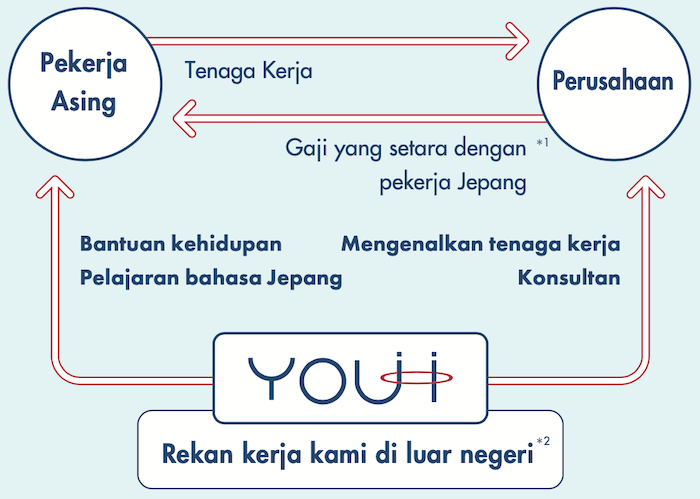
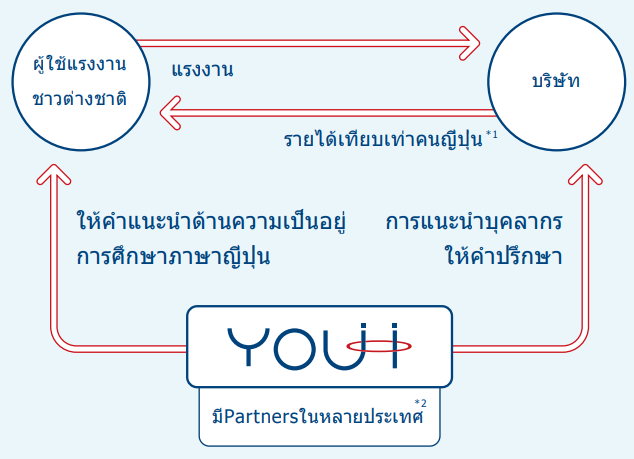
Translations

Changed region(s): [[0.0, 0.0, 0.989, 1.0], [0.929, 0.2745, 0.959, 0.305]]

diff --git a/index.html b/index.html
@@ -64,24 +64,22 @@
 
     <!-- Top Section -->
     <section class="top-section">
-        <div class="member-photo-container"><img src="img/facesrow1.jpg" alt="YOU-Iの外国人メンバー達" class="img-fluid"></div>
+        <div class="member-photo-container"><img src="img/facesrow1.jpg" alt="" class="img-fluid"></div>
         <div class="row logo-container">
             <div class="col-3 col-sm-2 align-center-top">
                 <div class="circle align-center text-center">
-                  Staf<br />
-                     multinasional
+                  พนักงานข้ามชาติ
                 </div>
             </div>
             <div class="col-6 col-sm-8 logo-area"></div>
             <div class="col-3 col-sm-2 align-center-top">
                 <div class="circle align-center text-center">
-                     16 Bahasa
+                     16 ภาษา
                 </div>
             </div>
         </div>
         <div class="row catchphrase text-center">
-            <span>Menghidupkan komunitas dengan jaringan<br />
-              kami yang ada di banyak tempat</span>
+            <span>เครือข่ายทัง้ ในและต่างประเทศที่คอยสนับสนุนกิจกรรม ต่างๆของชุมชน</span>
         </div>
         <div class="member-photo-container"><img src="img/facesrow2.jpg" alt="YOU-Iの外国人メンバー達" class="img-fluid"></div>
         <!-- Attempt to show flowdown with text
@@ -94,13 +92,13 @@
     <section class="page-section method-section">
         <div style="row">
             <div class="col-10 offset-1 container-with-border">
-                  Perusahaan yang ingin merekrut pekerja asing
+                  บริษัทต่างๆที่ต้องการ ผู้ใช้แรงงานชาวต่างชาต
             </div>
             <div class="w-100"></div>
             <div class="col-12 text-center divider-area-line"></div>
             <div class="w-100"></div>
             <div class="col-10 offset-1 container-with-border">
-                Orang yang ingin bekerja di Jepang
+                ผู้ที่ต้องการทำงานในประเทศญี่ปุ่นซึ่งอยู่ทัง้ ในและนอกประเทศญี่ปุ่น
             </div>
             <div class="w-100"></div>
             <div class="col-12 text-center divider-area-arrow"></div>
@@ -108,11 +106,11 @@
             <div class="row">
                 <div class="col-4 method-bottom-left"></div>
                 <div class="col-4 container-without-border">
-                    <span>Staf multinasional kami</span>
+                    <span>เรามีทีมงานคอยช่วยเหลือชาวต่าง</span>
                     <br />
-                    <span>akan membantu Anda!</span>
+                    <span>ชาติที่อาศัยอยู่ในจังหวัดอิชิกาวะ</span>
                     <br />
-                    <span class="color-red" style="font-size: 50%;">※Kami juga siap membantu pemagang (jisshusei)</span>
+                    <span class="color-red" style="font-size: 50%;">※และให้ความช่วยเหลือผู้มาฝึกงานทางเทคนิคด้วยเช่นกัน</span>
                 </div>
                 <div class="col-4 method-bottom-right"></div>
             </div>
@@ -126,22 +124,22 @@
             <div class="col-8 col-sm-9">
                 <div class="redlistbullet list-group">
                     <div class="list-group-item align-left-top">
-                        <div class="icon-area"></div><div class="align-middle">Bantuan untuk pekerja asing oleh staf multinasional kami yang berdomisili di sini</div>
+                        <div class="icon-area"></div><div class="align-middle">มีเจ้าหน้าที่ชาวต่างชาติคอยช่วยเหลือผู้ใช้แรงงานชาวต่างชาติ</div>
                     </div>
                     <div class="list-group-item">
-                        <div class="icon-area"></div><div class="align-middle">Mengenalkan ke perusahaan dengan lingkungan kerja yang baik</div>
+                        <div class="icon-area"></div><div class="align-middle">บริษัทที่ได้รับการแนะนำล้วนเป็นที่บริษัทที่ดีและน่าเชื่อถือ</div>
                     </div>
                     <div class="list-group-item">
-                        <div class="icon-area"></div><div class="align-middle">Bantuan kerja dalam bahasa ibu masing-masing</div>
+                        <div class="icon-area"></div><div class="align-middle">เราสามารถให้คำปรึกษาในภาษาของท่านได้</div>
                     </div>
                     <div class="list-group-item">
-                        <div class="icon-area"></div><div class="align-middle">Serahkan semua urusan VISA dan dokumen pada kami</div>
+                        <div class="icon-area"></div><div class="align-middle">เราจะเป็นผู้เดินพิธีการเอกสารทัง้ หมดในการเข้าประเทศ ให้กับท่าน</div>
                     </div>
                     <div class="list-group-item">
-                        <div class="icon-area"></div><div class="align-middle">Dikoordinasi oleh staf orang Jepang</div>
+                        <div class="icon-area"></div><div class="align-middle">มีเจ้าหน้าที่ญี่ปุ่นคอยประสานงาน</div>
                     </div>
                     <div class="list-group-item">
-                        <div class="icon-area"></div><div class="align-middle">Gaji yang bagus</div>
+                        <div class="icon-area"></div><div class="align-middle">มีรายได้ที่ด</div>
                     </div>
                 </div>
             </div>
@@ -151,23 +149,23 @@
     <!-- Basic Flow Section -->
     <section class="page-section basic-flow" id="basic-flow">
         <div class="page-section-heading text-center">
-            Menghidupkan ekonomi lokal melalui<br />support yang detil terpadu
+            ให้ความช่วยเหลือเศรษฐกิจในท้องถิ่นในทุกๆรายละเอียด
         </div>
         <div class="text-center"><img src="img/basicflow.png" class="img-fluid"></div><br />
         <div class="text-center annotation-area">
-            *1. Gaji sesuai dengan sistem dalam Pekerja Berketerampilan Spesifik (<a href="https://www.mofa.go.jp/mofaj/ca/fna/ssw/id/index.html" target="_blank">situs web</a>).
+            *1. เงินเดือนสำหรับผู้ใช้แรงงานเทคนิคพิเศษ (<a href="https://www.mofa.go.jp/mofaj/ca/fna/ssw/th/index.html" target="_blank">เว็บไซต์</a>).
             <br />
-            *2. Vietnam (5 perusahaan + 2 universitas), Thailand (2 perusahaan+ 2 universitas), Indonesia (3 perusahaan + 1 universitas), Nepal dan Filipina sedang dalam perencanaan.
+            *2. เวียดนาม(5บริษัท+2มหาวิทยาลัย)/ ไทย(2บริษัท+2มหาวิทยาลัย)/ อินโดนีเซีย(3บริษัท+1มหาวิทยาลัย)/ เนปาล,ฟิลิปปินส์ในอนาคต(ปั จจุบัน 2019)
         </div>
         <div class="row circle-area">
             <div class="col-4 align-right-middle">
                 <div class="circle align-center text-center">
-                    <span>Meningkatkan<br />semangat<br />kerja</span>
+                    <span>มีความตั้งใจ<br />ต่อการทํางาน<br />รักความก้าวหน้า</span>
                 </div>
             </div>
             <div class="col-4 align-center">
                 <div class="circle align-center text-center">
-                    <span>Lingkungan<br />kerja yang<br />bahagia</span>
+                    <span>มีความมั่นใจ<br />กับสภาพแวดล้อม<br />ในการทํางาน</span>
                 </div>
             </div>
             <div class="col-4 align-left-middle">
@@ -175,28 +173,36 @@
                     <div class="text-right align-right-bottom annotation-mark">
                         <span class="annotation">※3</span>
                     </div>
-                    <span>Mewujudkan<br />tempat kerja<br />yang Glocal</span>
+                    <span>การสร้าง<br />ที่ทํางานให้เป็น<br />ระบบGlocal</span>
                 </div>
             </div>
         </div>
-        <div class="text-left container additional-message-area">
-          Untuk para pekerja, kami siap membantu untuk kehidupan sehari-hari, pelajaran bahasa Jepang dan meningkatkan suasana lingkungan kerja yang baik. Untuk perusahaan, kami akan mengenalkan orang yang berkualifikasi dan menyediakan jasa konsultasi untuk mewujudkan tempat kerja yang “glocal.”
+        <div class="text-center container additional-message-area">
+          เราเตรียมพร้อมให้คําแนะนําเรื่องการอยู่อาศัยและภาษา ญี่ปุ่นเพื่อความ
+ก้าวหน้าในหน้าที่การงาน.สร้างมั่นใจ และสบายใจในสถานประกอบการ.
+ในภาคผู้ประกอบ การ เรามีบุคลากรต่างชาติที่มีความรู้ความสามารถคอย
+รองรับความต้องการ สร้างสถานที่ทํางานในท้องถิ่นให เป็นระบบสากล
         </div>
         <div class="text-center annotation-area">
-            *3. “Glocal” adalah kombinasi dari global dan local. Ini mengacu pada konsep “berfikir secara global, bertindak seccara lokal.
+*3. “Glocal” เป็นการผสมผสานความเป็นสากลกับท้องถิ่น (คิดแบบสากลเพื่อบริหารพื้นที่ท้องถิ่น)
         </div>
     </section>
 
     <section id="special-point-section" class="page-section section-revert special-point-section">
         <div class="page-section-heading text-center">
-            Pelayanan yang hanya bisa dilakukan oleh YOU-I
+            งานบริการที่ไม่มีใครทําได้นอกจาก YOU-I
         </div>
         <div class="img-area text-center">
 
         </div>
-        <div class="container text-area">
+        <div class="container text-center">
             <p>
-              Saat Anda datang ke Jepang untuk bertempat tinggal dan bekerja, Anda memerlukan orang yang bisa Anda andalkan untuk membantu Anda memahami bahasa Jepang, budaya setempat, kebiasaan dan lainnya. YOU-I bisa membantu hal-hal tersebut yang tidak bisa diselesaikan melalui hukum dan regulasi, mewujudkan suasana tempat kerja yang kondusif untuk pekerja asing dan perusahaan sambil membantu Anda menikmati kehidupan di Jepang.
+              เมื่อท่านมาอยู่และทํางานในญี่ปุ่น, คุณอาจจะต้องการความ
+ช่วยเหลือ เข้าใจภาษาและวัฒนธรรมเดียวกับคุณYOU-I
+เตรียมพร้อมให้ความช่วยเหลือทุกๆด้าน ไม่ว่าจะเป็นผู้ใช้
+แรงงานและบริษั ทจ้างงาน สามารถเชื่อมั่นและไว้วางใจได้,
+สร้างบรรยากาศในสถานที่ทํางานให้น่าอยู่, รวมทัง้ คอยช่วย
+ให้ผู้ที่มาทํางานให้มีความสุขกับการใช้ชีวิตให้ได้มากที่สุด
             </p>
         </div>
         <!--<div class="row">
@@ -260,12 +266,17 @@
         <div class="row top-banner"></div>
         <div class="container">
             <div class="logo-area"></div>
-            <div class="title-area text-center">Menghubungkan orang. Menghubungkan dunia.</div>
+            <div class="title-area text-center">สายสัมพันธ์ของผู้คน, สายสัมพันธ์สู่โลกกว้าง</div>
             <div class="text-area texnt-center">
               <p>
-              YOU-I dibentuk pada tahun 2006 sebagai grup pertukaran internasional di Ishikawa-Jepang dan menjadi organisasi nirlaba (NPO) pada tahun 2008. Kami melihat orang yang berdomisili di Ishikawa dan mempunyai kemampuan bahasa yang tinggi adalah aset untuk daerah ini, tujuan utama kami adalah menyediakan satu wadah di mana orang Jepang dan orang asing bisa berpartisipasi bersama dan membuat daerah tersebut lebih terbuka.</p>
+              YOU-I (ยู-ไอ)เริ่มก่อตัง้ ปี 2006 เป็นกลุ่มแลกเปลี่ยนระหว่าง
+ประเทศมีจุดศูนย์กลางในจังหวัดอิชิกาวะ และเติบโตเป็นองค์
+กรในปี 2008 เราเห็นความสําคัญความรู้ความสามารถทางด้าน
+ภาษาของคนในพื้นที่,และจุด ประสงค์หลักเพื่อช่วยชาวต่าง
+ชาติในพื้นที่ได้ร่วมสร้างสรรค์ชุมชน</p>
               <p>
-              Silahkan tonton video pengantar kami. Bahasa Indonesia akan segera tersedia.
+              โปรดดูวิดีโอแนะนำของเราด้านล่าง (ภาษาไทยจะมาเร็ว ๆ นี้!)
+
             </p>
             </div>
         </div>
@@ -287,8 +298,8 @@
 
     <div class="support-info-page">
         <div class="row top-banner align-center" style="background-image: url('img/support_jinzai.jpg');">
-          Staf multinasional kami</br>
-                akan membantu Anda!
+          เรามีทีมงานคอยช่วยเหลือชาวต่าง</br>
+                ชาติที่อาศัยอยู่ในจังหวัดอิชิกาวะ
         </div>
         <div class="container">
             <div class="row text-area">
@@ -296,64 +307,76 @@
                     <div class="title-area align-left-middle">
                         <div class="icon-area"></div>
                         <span class="title">
-                              Anda bisa menyerahkan pada kami untuk semua proses pembuatan visa
+                              การให้บริการเดินพิธีการขอวีซ่า
                         </span>
                     </div>
                     <div class="content-area">
-                        Kami juga bisa menjadi sebagai agen pembuatan visa.
+                        เป็นตัวแทนเดินพิธีการขอวีซ่า ในทุกรายละเอียด
                     </div>
                 </div>
                 <div class="col-12 col-sm-6 text-block">
                     <div class="title-area align-left-middle">
                         <div class="icon-area"></div>
                         <span class="title">
-                            Hanya menyediakan orang yang terpercaya dan berkualitas
+                            ทําสัญญาโทรศัพท์มือ แนะนําการหาที่พักอาศัย
                         </span>
                     </div>
                     <div class="content-area">
-                        Lembaga pengiriman yang menjadi rekan kerja kami melakukan pendidikan yang baik dan hanya menyediakan pekerja dengan kualitas yang baik.
+                        เราจะช่วยหาบ้านเช่าและช่วยทําสัญญาการเช่าซื้อโทรศัพท์มือถือ
                     </div>
                 </div>
                 <div class="col-12 col-sm-6 text-block">
                     <div class="title-area align-left-middle">
                         <div class="icon-area">&nbsp;</div>
                         <span class="title">
-                          Bantuan dilakukan oleh staf multinasional kami yang berdomisili di Ishikawa
+                          ผู้ใช้แรงงานของเราเป็นบุคคลากรที่มีความรู้
+ความสามารถสูง
                         </span>
                     </div>
                     <div class="content-area">
-                        Penerjemah YOU-I adalah orang yang berdomisili di sini dan berpengalaman sebagai penerjemah hingga membuat hubungan yang lancar antara pekerja dan perusahaan. Kami juga menyediakan penerjemah untuk ke rumah sakit dan lainnya.
+                        บริษัท Partner ในต่างประเทศที่บริษัทจัดส่งคนไปทํางาน
+(ต่างประเทศ)ที่จัดส่งผู้ใช้แรงงานที่มีความรู้ความสามารถเชื่อ
+ถือได้
                     </div>
                 </div>
                 <div class="col-12 col-sm-6 text-block">
                     <div class="title-area align-left-middle">
                         <div class="icon-area"></div>
                         <span class="title">
-                            Menghadirkan suasana perusahaan yang global
+                            เรามีบริษัทPartnerในต่างประเทศที่ช่วยติด
+ต่อญาติพี่น้องในประเทศของตน
                         </span>
                     </div>
                     <div class="content-area">
-                        Hubungan saling pengertian di kedua belah pihak akan membantu mewujudkan lingkungan kerja yang nyaman. Kami juga mengadakn berbagai macam acara pertukaran dan pelatihan untuk meningkatkan pemahaman staf tentang berbagai macam budaya secara global.
+                        YOU-Iมีบริษั ทหุ้นส่วนที่เชื่อถือได้ในหลายๆประเทศ.เราสามารถ
+ติดต่อหรือจัดส่งข้อความระหว่างครอบครัวกับผู้ใช้แรงงานในต่าง
+ประเทศได้ทันที
                     </div>
                 </div>
                 <div class="col-12 col-sm-6 text-block">
                     <div class="title-area align-left-middle">
                         <div class="icon-area"></div>
                         <span class="title">
-                            Kami bisa membantu kontrak ponsel dan membantu mencarikan tempat tinggal
+                            เรามีเจ้าหน้าที่ต่างชาติที่อาศัยอยู่ในจังหวัด
+อิชิกาวะที่คอยให้คําปรึกษา
                         </span>
                     </div>
                     <div class="content-area">
-                        Jika perusahaan tidak menyediakan tempat tinggal, kami akan membantu mencarikannya. Kami juga akan membantu dalam kontrak ponsel.
+                        กิจกรรมของNPO YOU-I เรามีล่ามชาวต่างชาติที่มีประสบการณ์
+ช่วยsupportsบริษัทของท่าน. ร่วมทัง้การพาผู้ใช้แรงงานชาว
+ต่างชาติไปโรงพยาบาลเมื่อจําเป็น
                     </div><br>
                     <div class="title-area align-left-middle">
                         <div class="icon-area"></div>
                         <span class="title">
-                          Hubungan yang kuat dengan negara asal
+                          เรามีความเป็นกลางในการให้ความช่วยเหลือ
+ไม่ว่าจะเป็นปัญหางานหรือเรื่องการพักอาศัย
                         </span>
                     </div>
                     <div class="content-area">
-                        Lembaga pengirimannya adalah rekan kerja yang terpercaya. Jika diperlukan kami bisa mengontak dan menjelaskan keadaan pekerja dan keluarga saat itu secara cepat dan sebaliknya.
+                        เราให้คําปรึกษาต่อผู้ใช้แรงงาน ไม่ว่าจะเป็นปัญหาในที่ทํางาน,
+ปัญหาความเป็นอยู่.เรามีเจ้าหน้าที่ที่จะช่วยเหลือและเป็นสื่อกลาง
+ในการสื่อสารกับหัวหน้างาน
                     </div>
                 </div>
                 <div class="col-12 col-sm-6">
@@ -361,11 +384,14 @@
                         <div class="title-area align-left-middle">
                             <div class="icon-area"></div>
                             <span class="title">
-                                Kami berdiri di posisi yang netral dalam menyelesaikan masalah di tempat kerja dan kehidupan sehari-hari
+                                การสร้างสรรค์วัฒนธรรมขององค์กรให้เป็น
+สากล
                             </span>
                         </div>
                         <div class="content-area">
-                          Kami membantu menyelesaikan masalah antara perusahaan dan pekerja. Jika petunjuk dari perusahaan sulit dipahami, staf kami akan membantu menyelesaikan masalah secara netral.
+                          ความเข้าใจเป็นอย่างดีของผู้ใช้แรงงานและบริษัทผู้จ้างจะส่งผล
+ให้มีความสุขกับการทํางาน. การจัดกิจกรรมต่างๆเพื่อแลกเปลี่ยน
+วัฒนธรรม.และทักษะสากลของพนักงาน
                         </div>
                     </div>
                 </div>
@@ -509,7 +535,7 @@
 
                  <!-- Footer Logo & Copyright -->
                  <div style="text-align: center">
-                      &copy; PT. YOU-I JAPAN
+                      &copy; บริษัท YOU-I JAPAN จํากัด
                  </div>
 
          </div>
